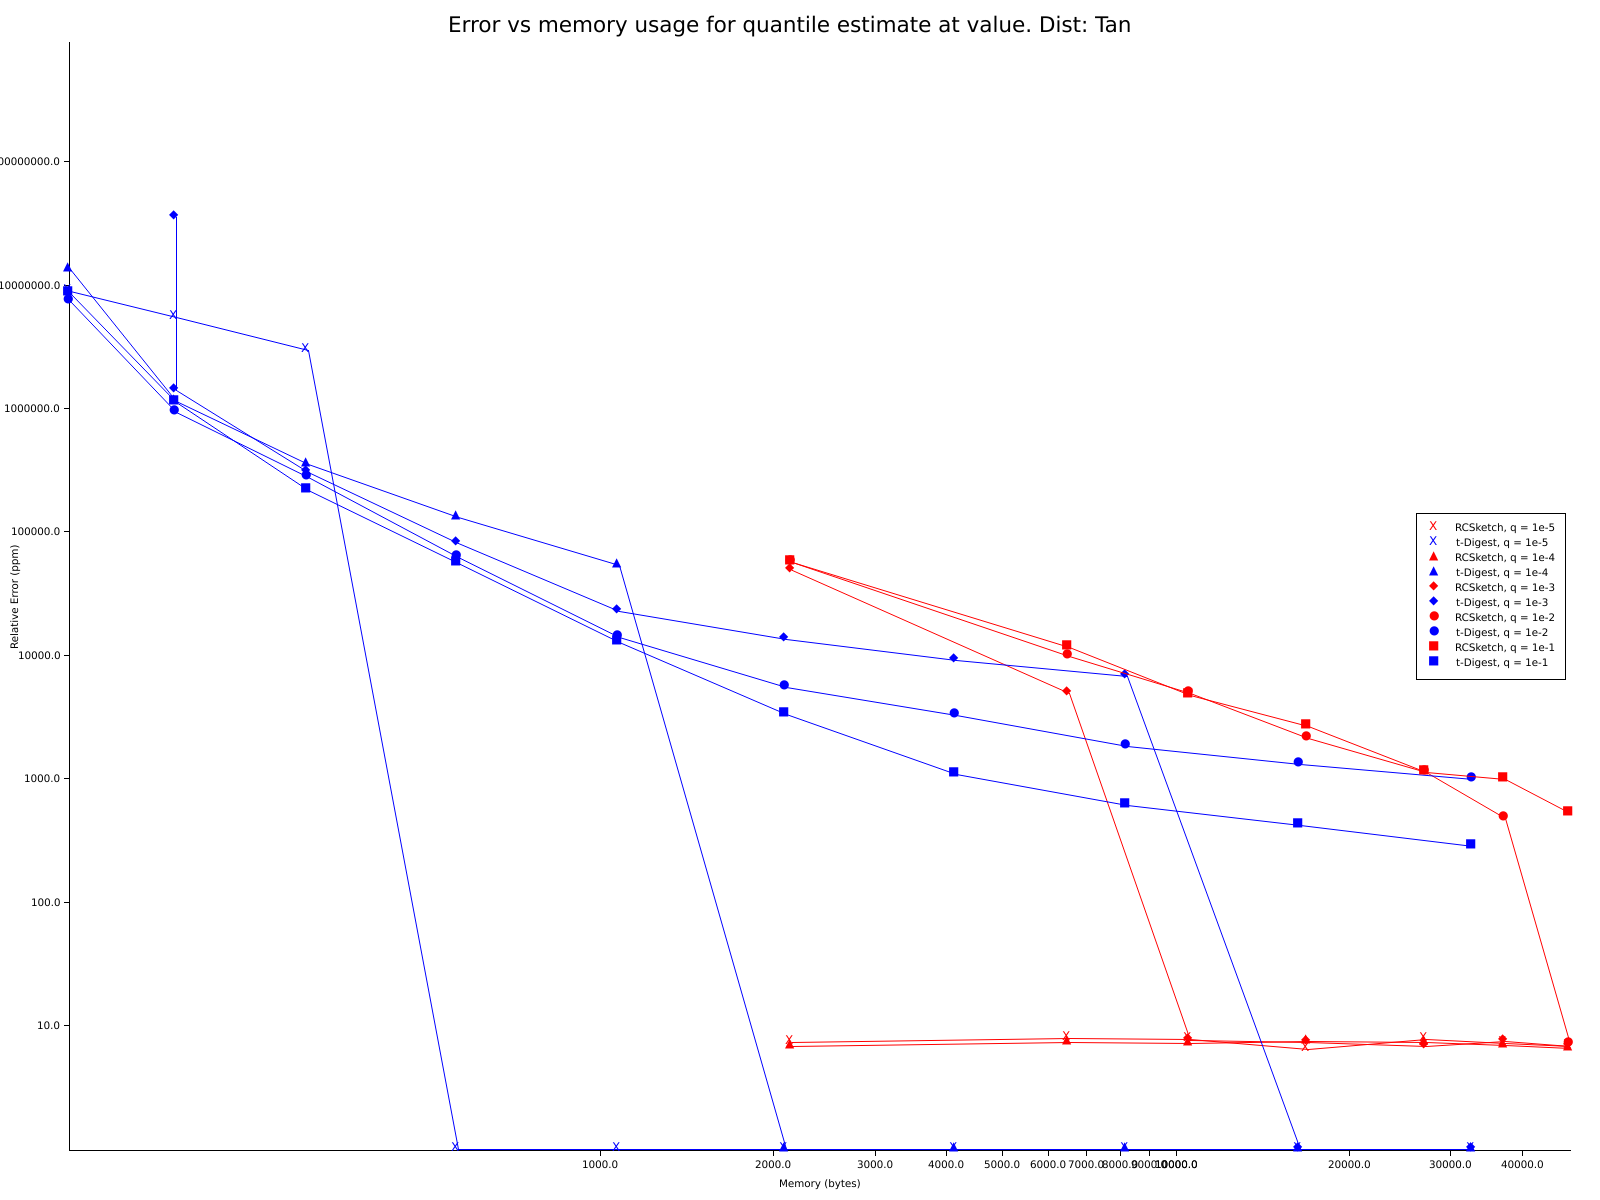
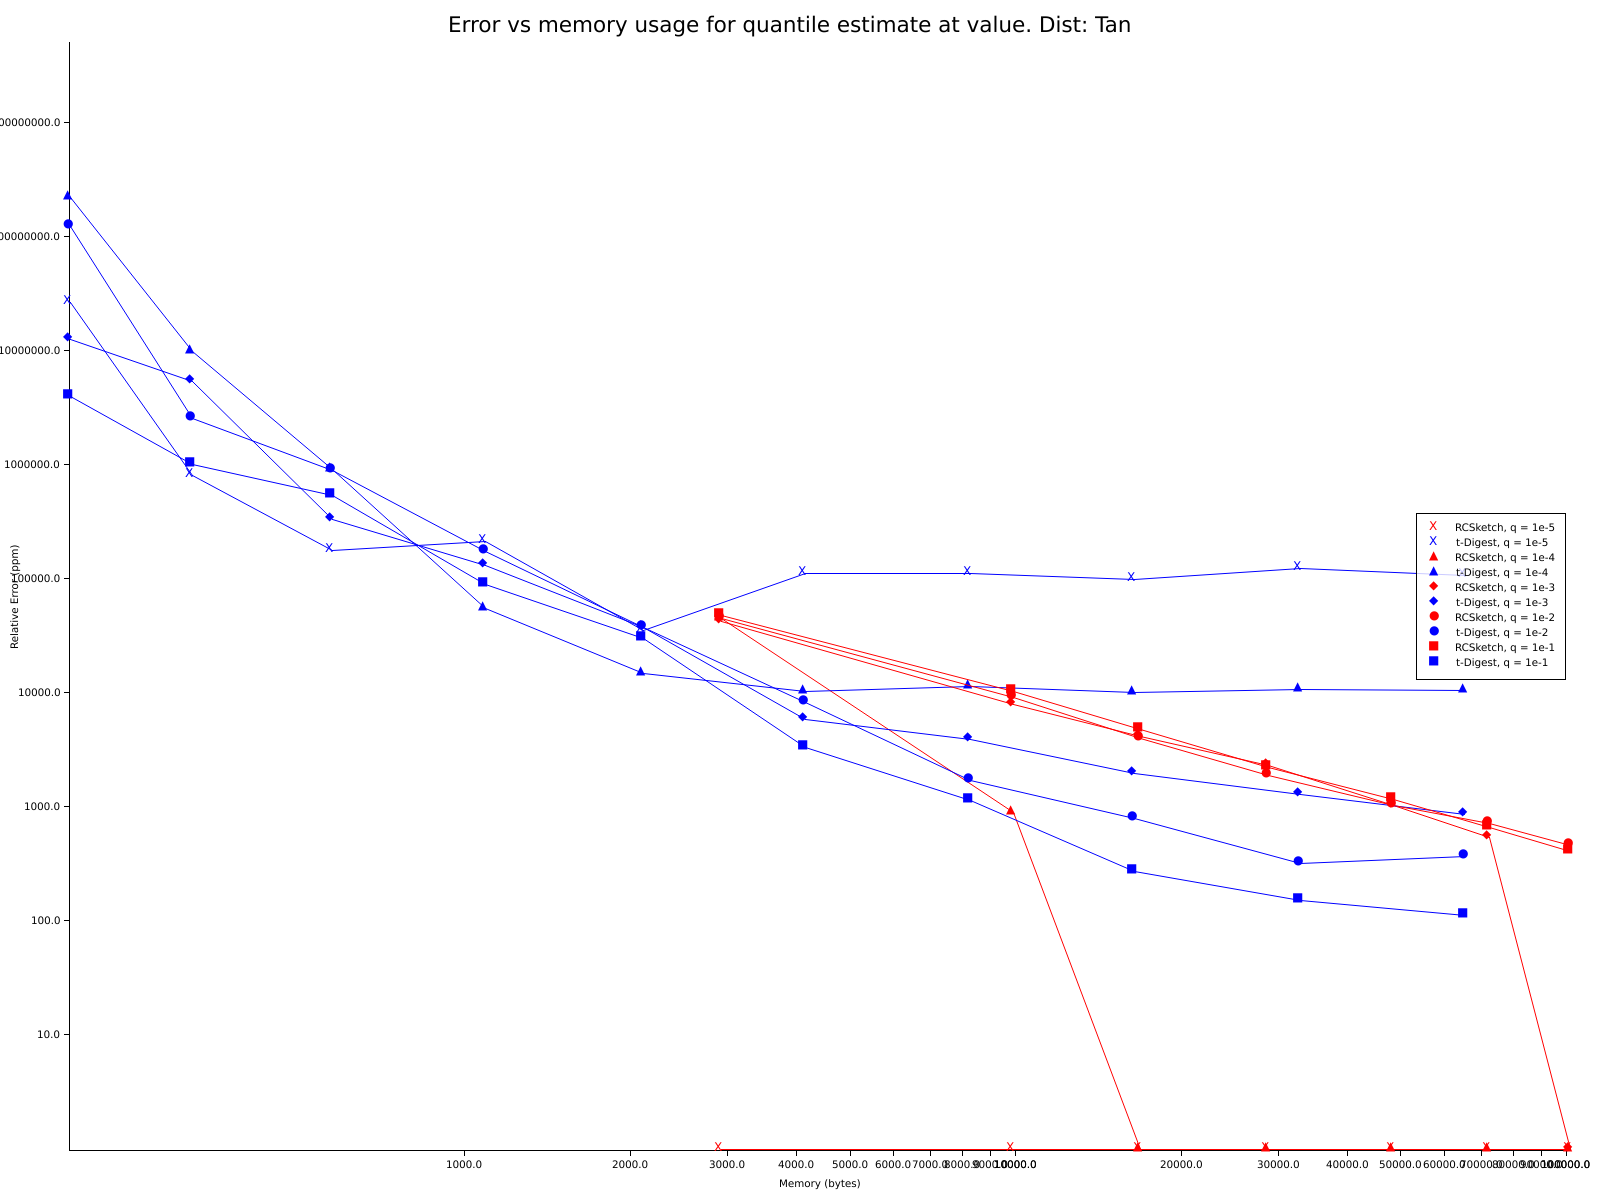
Test with 1M err vs mem usage

diff --git a/examples/accuracy.rs b/examples/accuracy.rs
@@ -951,7 +951,7 @@ where
     .map(|(q, marker)| (T::from(*q).unwrap(), marker.to_string()))
     .collect::<Vec<(T, String)>>();
 
-    let input_size = 100_000;
+    let input_size = 1_000_000;
     let rc_sketch_mem_size = |param| {
         let digest = create_rcsketch(param)(&gen_uniform_tan_vec(input_size));
         digest.owned_size()
